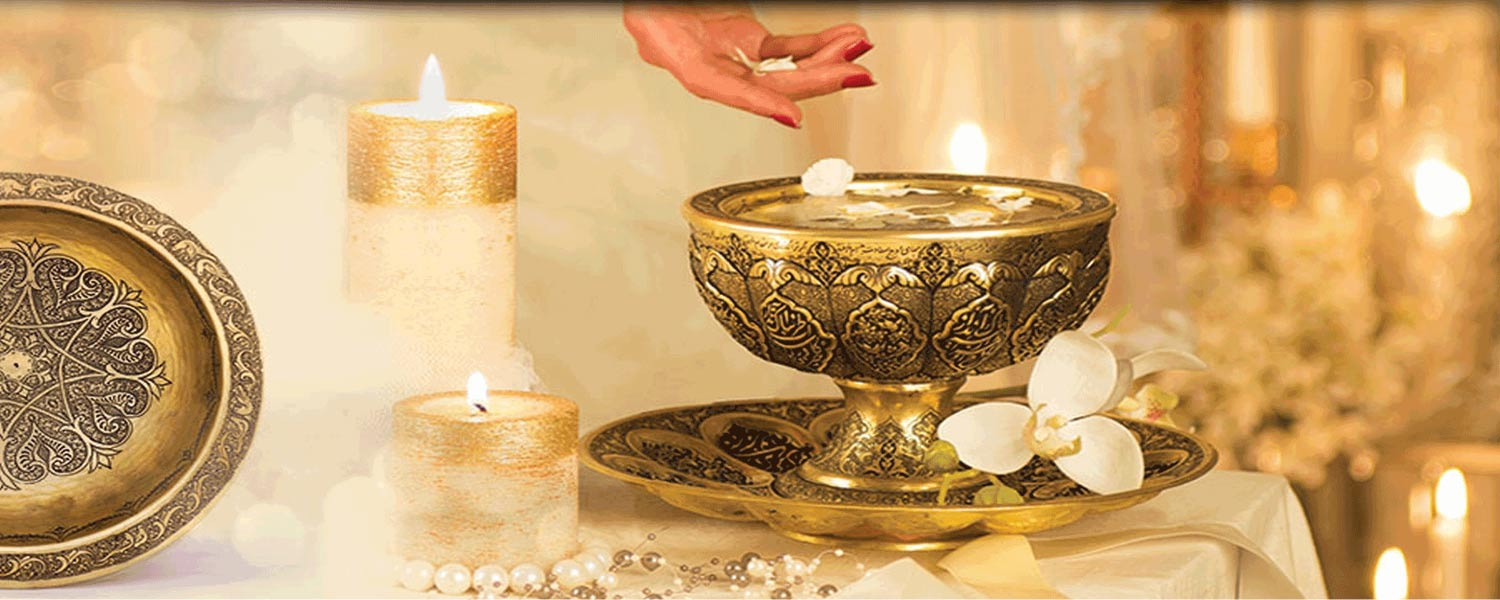
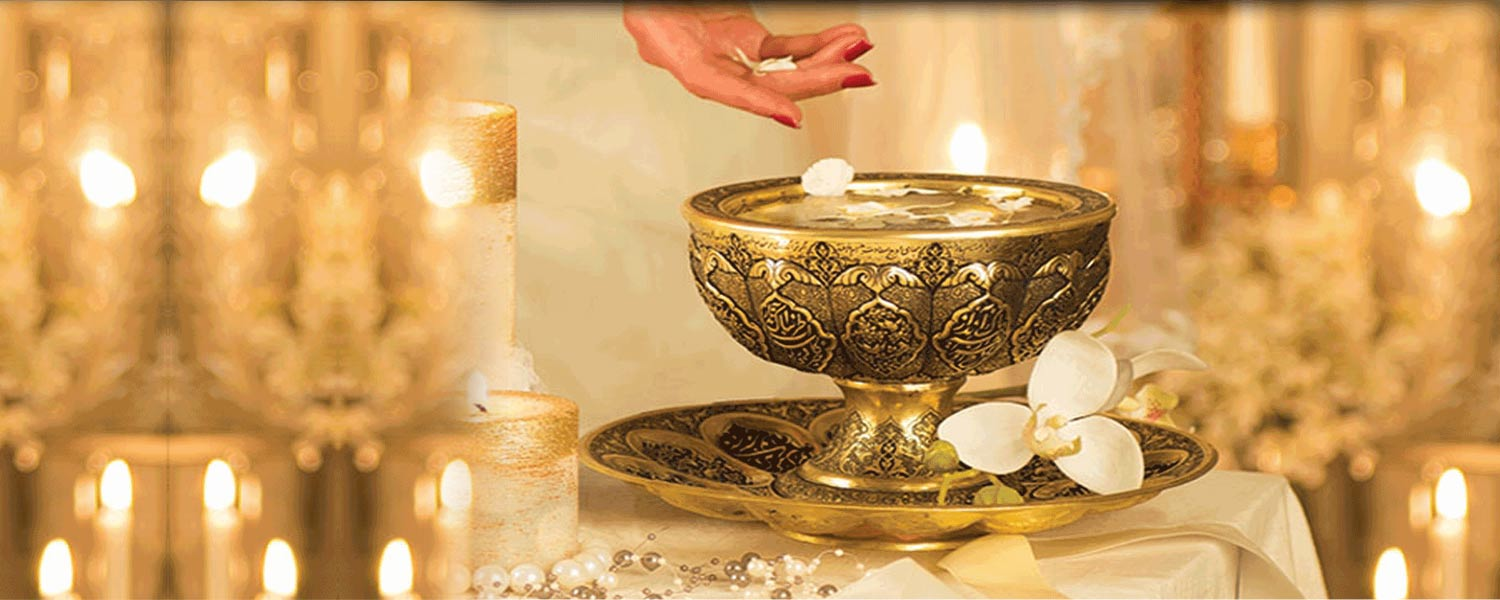
section slider

Changed region(s): [[0.0, 0.0, 0.3373, 1.0]]

diff --git a/css/style.css b/css/style.css
@@ -48,6 +48,9 @@ body {
 	align-items: center;
 }
 .header-search {
+	font-size: 19px;
+	color: #eeeeee;
+	font-family: "FontAwesome";
 	margin-left: 36px;
 	display: flex;
 }
@@ -90,10 +93,79 @@ body {
 /*========== MAIN ==================*/
 /*---------- section slider ----------*/
 .slider {
+	height: 465px;
 	position: relative;
 }
 .slider-banner {
 	position: absolute;
 	top: -135px;
 	z-index: -1;
+}
+.slider-arrow {
+	border-radius: 0 10px 10px 0;
+	position: absolute;
+	z-index: 10;
+	left: 0;
+	top: 136px;
+	width: 49px;
+	height: 57px;
+	background-color: rgba(0, 0, 0, 0.38);
+	/*----view----*/
+	display: flex;
+	align-items: center;
+	justify-content: center;
+	color: #ffffff;
+	font-family: "FontAwesome";
+	font-size: 26px;
+}
+.slider-arrow.right {
+	transform: translateX(-100%) scale(-1);
+	left: 100%;
+}
+/*---------- slider-banner-text ----------*/
+.slider-banner-text {
+	display: flex;
+	align-items: center;
+	flex-direction: column;
+	justify-content: space-evenly;
+	position: absolute;
+	transform: translate(-50%);
+	left: 50%;
+	top: 122px;
+	width: 630px;
+	height: 243px;
+	background-color: rgba(255, 255, 255, 0.9);
+}
+.slider-banner__title {
+	margin: 0 29px;
+	color: #000000;
+	font-family: 'Open Sans', sans-serif;
+	font-size: 42px;
+	font-weight: 300;
+	text-transform: uppercase;
+}
+.slider-banner__desc {
+	text-align: center;
+	margin: -6px 47px 0;
+	color: #000000;
+	font-family: 'Open Sans', sans-serif;
+	font-size: 19px;
+	font-weight: 400;
+	line-height: 1.4;
+}
+.slider-banner__btn {
+	width: 268px;
+	height: 49px;
+	display: flex;
+	align-items: center;
+	padding-bottom: 3px;
+	justify-content: center;
+	background-color: #b45205;
+	border-radius: 7px;
+	/*----view----*/
+	color: #fefefe;
+	font-family: 'Open Sans', sans-serif;
+	font-size: 24px;
+	font-weight: 400;
+	text-transform: uppercase;
 }

diff --git a/index.html b/index.html
@@ -23,10 +23,7 @@
 					<img src="img/cart.png" alt="">
 					<div class="header-cart__total">0<span>&nbsp;Item</span></div>		
 				</a>	
-				<a href="#!" class="header-search">
-					<span></span>
-					<img src="img/search.png" alt="">
-				</a>
+				<a href="#!" class="header-search">&#xf002;</a>
 				<div class="hv"></div>
 				<a href="" class="header-gamb-menu">
 					<img src="img/gamburger.png" alt="">
@@ -51,9 +48,17 @@
 
 <main>
 	<section class="slider">
-		<img src="img/banner.jpg" alt="" class="slider-banner">
-		<div class="slider-arrow--left"></div>
-		<div class="slider-arrow--right"></div>
+		<div class="slider-banner"><img src="img/banner.jpg" alt=""></div>
+		<img src="img/slider-01.png" alt="">
+		<a id="arrow-left" href="#!"><div class="slider-arrow">&#xf053;</div></a>
+		<a id="arrow-right" href="#!"><div class="slider-arrow right">&#xf054;</div></a>
+		<div class="slider-banner-text">
+			<div class="slider-banner__title">Lorem Ipsum is simply</div>
+			<div class="slider-banner__desc">
+				<p>It is a long established fact that a reader will be distracted by the readable content of a page when looking at its layout.</p>
+			</div>
+			<a href="#!"><div class="slider-banner__btn">Read More</div></a>
+		</div>
 	</section>
 </main>
 
